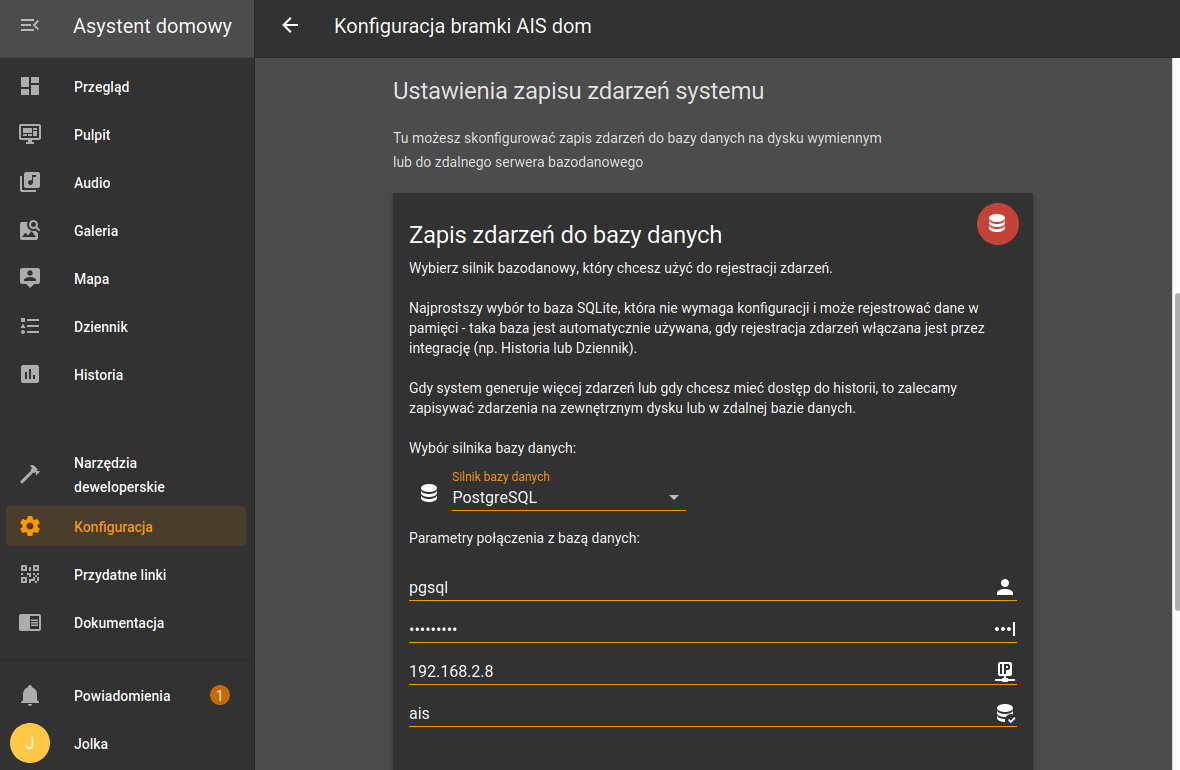
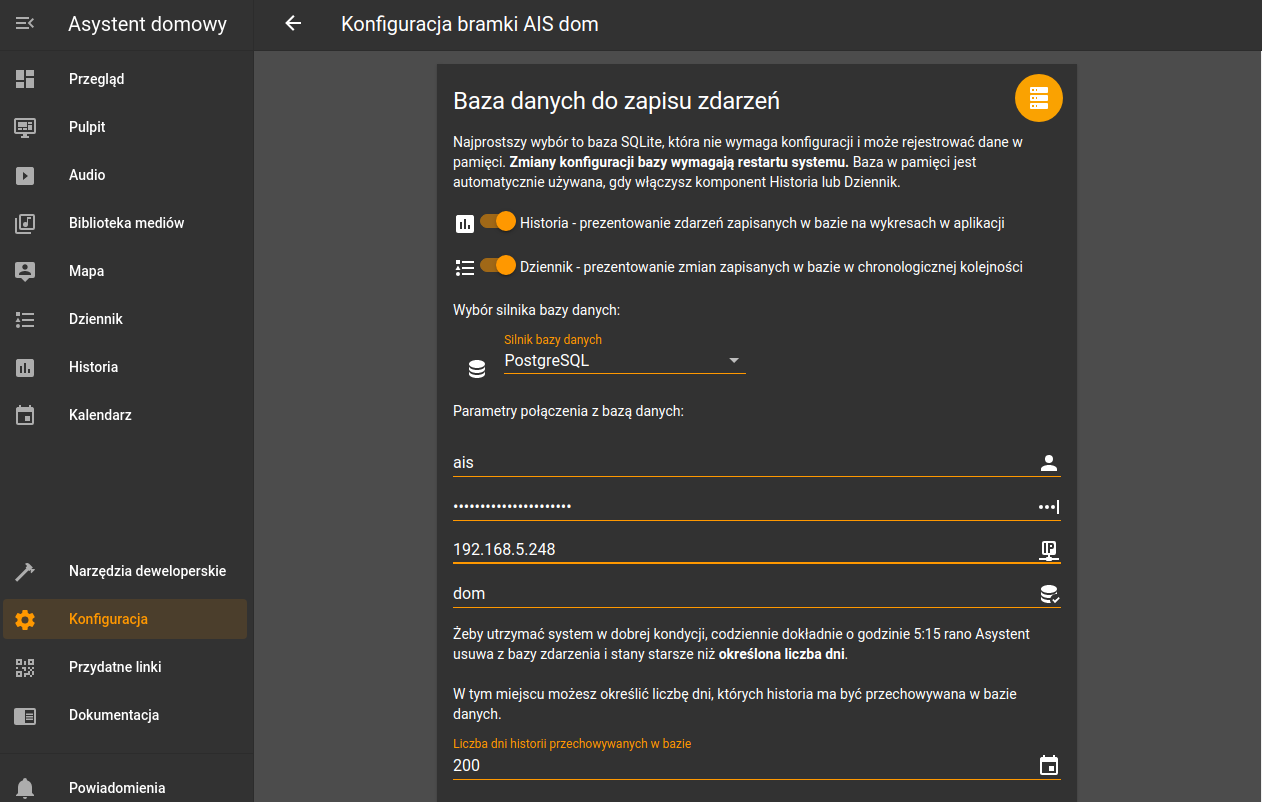
update info 2001.04.02

diff --git a/src/pages/index.js b/src/pages/index.js
@@ -17,7 +17,7 @@ const ais_features = [
     <Translate
         id="homepage.ais_features.wifi.title"
         description="Wifi number devices title"
-        values={{devices: <span className="strongInfo">1900</span>}}>
+        values={{devices: <span className="strongInfo">1920</span>}}>
         {'Ponad {devices} urządzeń WiFi'}
     </Translate>,
     imageUrl: 'img/main/wifi.svg',
@@ -28,7 +28,7 @@ const ais_features = [
           description="Wifi number devices description"
           values={{
             aisSocket: <Link to="/docs/ais_iot_s26">WiFi S26</Link>,
-            moreWiFiDevices: <Link to="https://templates.blakadder.com/index.html">1900</Link>
+            moreWiFiDevices: <Link to="https://templates.blakadder.com/index.html">1920</Link>
           }}
        >
         {'Inteligentne gniazdo {aisSocket} to najprostszy sposób, by dodać odrobinę inteligencji do urządzeń w domu. Urządzenie działa na oprogramowaniu, którego źródła oraz skompilowaną wersję udostępniamy za darmo. Dzięki czemu masz do wyboru {moreWiFiDevices} różnych urządzeń WiFi, które możesz podłączyć do bramki w ten sam prosty sposób jak nasze Inteligentne gniazdo.'}
@@ -42,7 +42,7 @@ const ais_features = [
     <Translate
         id="homepage.ais_features.zigbee.title"
         description="Zigbee number devices title"
-        values={{devices: <span className="strongInfo">1350</span>}}>
+        values={{devices: <span className="strongInfo">1400</span>}}>
         {'Ponad {devices} urządzeń Zigbee'}
     </Translate>,
     imageUrl: 'img/main/zigbee.svg',
@@ -53,7 +53,7 @@ const ais_features = [
           description="Zigbee number devices description"
           values={{
             aisZigbee: <Link to="/docs/ais_zigbee_index">Zigbee2Mqtt</Link>,
-            moreZigbeeDevices: <Link to="https://www.zigbee2mqtt.io/information/supported_devices.html">1350</Link>
+            moreZigbeeDevices: <Link to="https://www.zigbee2mqtt.io/information/supported_devices.html">1400</Link>
           }}
        >
         {'Dzięki {aisZigbee} możesz łatwo dołączyć do bramki urządzenia Zigbee.  Ponad {moreZigbeeDevices} jest wspieranych przez oprogramowanie Zigbee2Mqtt które dostarczamy na bramce.'}

diff --git a/static/ota/index.html b/static/ota/index.html
@@ -290,10 +290,10 @@
         <td data-label="AIS Bootstrap"><svg style="width:24px;height:24px" viewBox="0 0 24 24">
             <path fill="#000000"
               d="M14.62,8.35C14.2,8.63 12.87,9.39 12.67,9.54C12.28,9.85 11.92,9.83 11.53,9.53C11.33,9.37 10,8.61 9.58,8.34C9.1,8.03 9.13,7.64 9.66,7.42C11.3,6.73 12.94,6.78 14.57,7.45C15.06,7.66 15.08,8.05 14.62,8.35M21.84,15.63C20.91,13.54 19.64,11.64 18,9.97C17.47,9.42 17.14,8.8 16.94,8.09C16.84,7.76 16.77,7.42 16.7,7.08C16.5,6.2 16.41,5.3 16,4.47C15.27,2.89 14,2.07 12.16,2C10.35,2.05 9,2.81 8.21,4.4C8,4.83 7.85,5.28 7.75,5.74C7.58,6.5 7.43,7.29 7.25,8.06C7.1,8.71 6.8,9.27 6.29,9.77C4.68,11.34 3.39,13.14 2.41,15.12C2.27,15.41 2.13,15.7 2.04,16C1.85,16.66 2.33,17.12 3.03,16.96C3.47,16.87 3.91,16.78 4.33,16.65C4.74,16.5 4.9,16.6 5,17C5.65,19.15 7.07,20.66 9.24,21.5C13.36,23.06 18.17,20.84 19.21,16.92C19.28,16.65 19.38,16.55 19.68,16.65C20.14,16.79 20.61,16.89 21.08,17C21.57,17.09 21.93,16.84 22,16.36C22.03,16.1 21.94,15.87 21.84,15.63" />
-          </svg> files.tar.7z <br><b>LTS<b></td>
-        <td data-label="Version">2021-03-20</td>
+          </svg> files.tar.7z <br><b>2021.3.7 LTS<b></td>
+        <td data-label="Version">2021-04-02</td>
         <td data-label="Manufacturer">AI-Speaker</td>
-        <td data-label="Date">2021-03-20</td>
+        <td data-label="Date">2021-04-02</td>
         <td style="text-align: center;" data-label="Download"><a
             href="https://powiedz.co/ota/bootstrap/files.tar.7z"><svg style="width:24px;height:24px"
               viewBox="0 0 24 24">

diff --git a/docs/ais_bramka_configuration_logs_and_db.md b/docs/ais_bramka_configuration_logs_and_db.md
@@ -6,20 +6,18 @@ sidebar_label: Logi i baza danych
 
 W tej sekcji możesz skonfigurować zapis logów do pliku na wymiennym dysku oraz skonfigurować zapis zdarzeń do bazy danych.
 
-## Zapis logów systemu do pliku
-
-Żeby włączyć logowanie w systemie Asystent domowy, wystarczy wybrać lokalizację na dysku wymiennym, w której będzie zapisywany plik z rejestrem działań w systemie. Dodatkowo można też określić poziom szczegółowości logowania.
-
-
-![Konfiguracja zapisu logów](/img/en/bramka/bramka_ais_dom_config_logs.png)
 
 ## Zapis zdarzeń do bazy danych
 
 W tej sekcji możemy wybrać silnik bazodanowy do rejestracji zdarzeń.
 
-Najprostszy wybór to baza SQLite, która nie wymaga konfiguracji i może rejestrować dane w pamięci - taka baza jest automatycznie używana, gdy rejestracja zdarzeń włączana jest przez integrację (np. Historia lub Dziennik).
+Najprostszy wybór to baza SQLite, która nie wymaga konfiguracji i może rejestrować dane w pamięci - taka baza jest automatycznie używana, gdy włączysz **Historię** lub **Dziennik**.
 
-Gdy system generuje więcej zdarzeń lub gdy chcesz mieć dostęp do historii, to zalecamy zapisywać zdarzenia na zewnętrznym dysku lub w zdalnej bazie danych.
+
+:::caution Uwaga
+Gdy Twój system generuje więcej zdarzeń lub gdy chcesz mieć dostęp do historii po restarcie urządzenia, to zalecamy zapisywać zdarzenia na zewnętrznym dysku lub w zdalnej bazie danych.
+:::
+
 
 ![Konfiguracja zapisu zdarzeń](/img/en/bramka/bramka_ais_dom_config_db.png)
 
@@ -61,8 +59,16 @@ apt install postgresql
 pip install psycopg2
 ```
 
-## Automatyczne czyszczenie historii
+### Automatyczne czyszczenie historii
 
-Żeby utrzymać system w dobrej kondycji, codziennie dokładnie o godzinie 4:12 rano Asystent usuwa z bazy zdarzenia i stany starsze niż określona liczba dni (2 dni dla bazy w pamięci urządzenia i domyślnie 10 dla innych lokalizacji).  W tym miejscu możesz określić liczbę dni, których historia ma być przechowywana w zdalnej bazie danych.
+Żeby utrzymać system w dobrej kondycji, codziennie dokładnie o godzinie 5:15 rano Asystent usuwa z bazy zdarzenia i stany starsze niż określona liczba dni (2 dni dla bazy w pamięci urządzenia i domyślnie 10 dla innych lokalizacji).  W tym miejscu możesz określić liczbę dni, których historia ma być przechowywana w zdalnej bazie danych.
 
 ![Konfiguracja usuwania zdarzeń z bazy](/img/en/bramka/bramka_ais_dom_config_db2.png)
+
+
+## Zapis logów systemu do pliku
+
+Żeby włączyć logowanie w systemie Asystent domowy, wystarczy wybrać lokalizację na dysku wymiennym, w której będzie zapisywany plik z rejestrem działań w systemie. Dodatkowo można też określić poziom szczegółowości logowania.
+
+
+![Konfiguracja zapisu logów](/img/en/bramka/bramka_ais_dom_config_logs.png)

diff --git a/docs/ais_app_assistent_commands.md b/docs/ais_app_assistent_commands.md
@@ -115,23 +115,6 @@ Zapytaj "jaki jest adres IP" by otrzymać informację o IP urządzenia, lub "jak
 'Jaki jest {szukana-fraza}'; 'Jaka jest {szukana-fraza}''
 ```
 
-## Informacja o pogodzie
-
-* **Sprawdzanie aktualnej pogody**
-
-Wystarczy, że zapytasz "jaka jest pogoda" by otrzymać informację o aktualnej pogodzie w Twojej lokalizacji
-
-```text
-'[aktualna] pogoda'
-```
-
-* **Sprawdzanie prognozy pogody**
-
-Wystarczy, że zapytasz "jaka będzie pogoda" by otrzymać informację o prognozie pogody dla Twojej lokalizacji
-
-```text
-'Prognoza pogody'; 'Jaka będzie pogoda'
-```
 
 ## Wyszukiwanie informacji
 
@@ -240,6 +223,9 @@ lub
 Automatyzacja {nazwa automatyzacji}
 ```
 
+Możemy też dodać do nazwy automatyzacji prefiks "Jolka: ", dzięki temu Asystent zrozumie, że nazwa po prefiksie to komenda i po jej wypowiedzeniu uruchomi automatyzację.
+Czyli jeżeli nazwiemy automatyzację "Jolka: podlej trawnik", to wystarczy, że uruchomimy w systemie komendę "Podlej trawnik" żeby wykonać automatyzację o nzawie **"Jolka: podlej trawnik"**.
+Więcej informacji na stronie [Komenda w automatyzacji](/docs/ais_app_assistent_add_command/#komenda-w-automatyzacji).
 
 ## Google  Home
 
